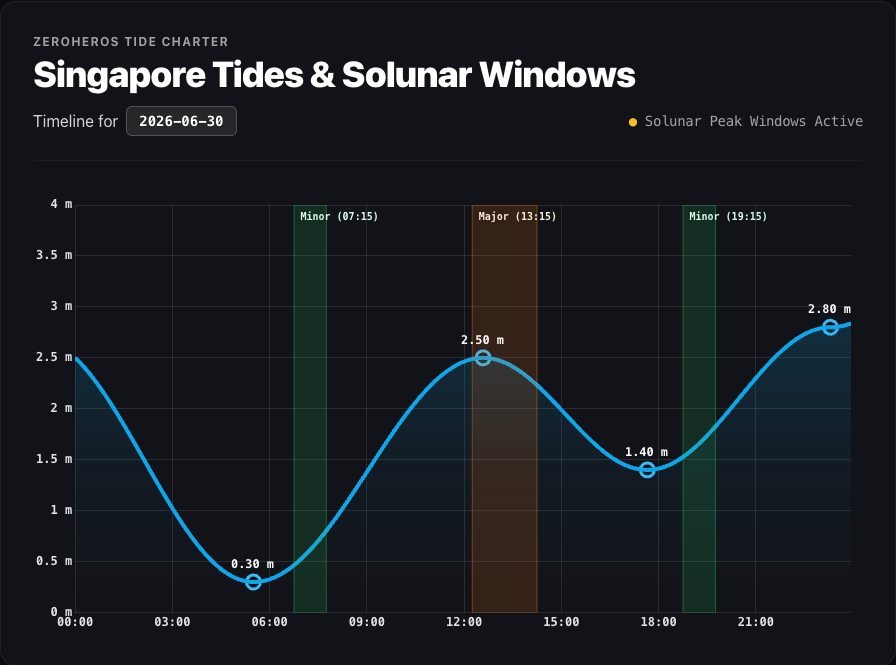
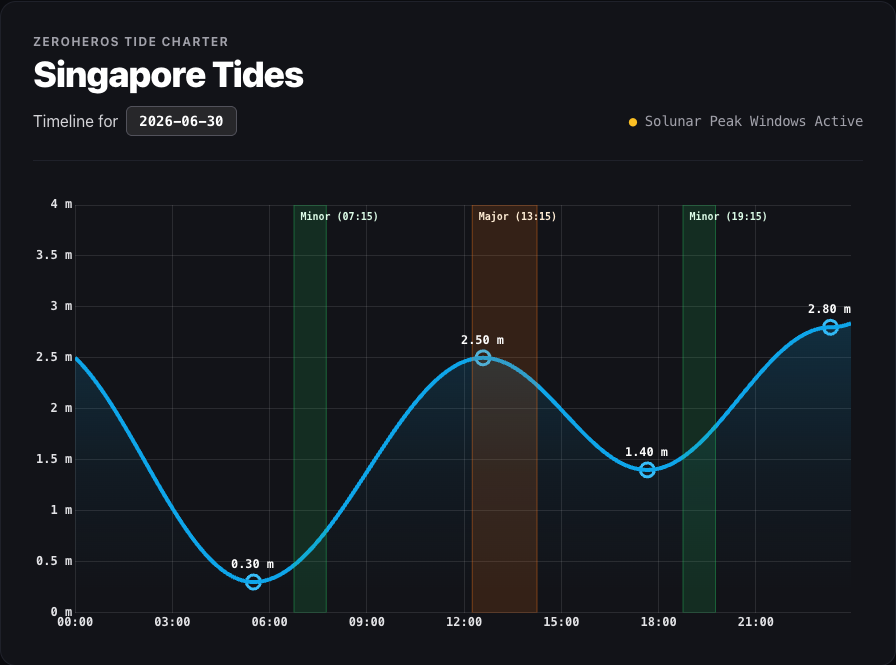
update dockerfiler due to C compile issue

Changed region(s): [[0.3438, 0.0902, 0.7188, 0.1504]]

diff --git a/template.html b/template.html
@@ -23,7 +23,7 @@
 
 		<header class="mb-8 border-b border-[#1f212a] pb-6">
 			<p class="text-xs font-bold uppercase tracking-widest text-zinc-400 mb-1">ZeroHeros Tide Charter</p>
-			<h1 class="text-4xl font-black tracking-tight text-white mb-3">Singapore Tides & Solunar Windows</h1>
+			<h1 class="text-4xl font-black tracking-tight text-white mb-3">Singapore Tides</h1>
 			<div class="flex flex-col sm:flex-row sm:items-center justify-between gap-4">
 				<div class="flex items-center gap-2 text-base text-zinc-300">
 					<span>Timeline for</span>